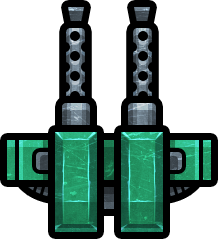
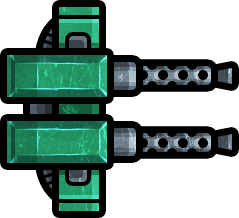
animate towers

diff --git a/battle-towers-react/src/components/classes/Tower.ts b/battle-towers-react/src/components/classes/Tower.ts
@@ -1,17 +1,20 @@
 import { Position } from "../../types";
 import Bullet from "./Bullet";
+import Sprite from "./Sprite";
 import Enemy from "./enemies/Enemy";
+// import cannon from "./../../assets/img/towers/structures/cannon/Cannon1.png";
+// import minigun from "./../../assets/img/towers/structures/minigun/MG1.png";
+import cannon from "./../../assets/img/towers/structures/missile/Missile_Launcher1.png";
+class Tower extends Sprite {
 
-class Tower {
-    private canvasRenderingContext: CanvasRenderingContext2D;
-    private position: Position;
     private size: number;
     private bullets: Bullet[];
     private radius: number;
     private target: Enemy | null;
-    private frames: number;
+    private bulletFrames: number;
 
     constructor(ctx: CanvasRenderingContext2D, { x = 0, y = 0 }: Position) {
+        super(ctx, { x: 0, y: 0 }, cannon)
         this.canvasRenderingContext = ctx;
         this.position = {
             x: x,
@@ -20,8 +23,9 @@ class Tower {
         this.size = 128;
         this.bullets = [];
         this.radius = 250;
-        this.frames = 0;
+        this.bulletFrames = 0;
         this.target = null;
+
     }
 
     private drawBlastField() {
@@ -36,8 +40,17 @@ class Tower {
     }
 
     private drawTower() {
-        this.canvasRenderingContext.fillStyle = 'blue';
-        this.canvasRenderingContext.fillRect(this.position.x, this.position.y, this.size, this.size);
+        if (this.target) {
+            const angle = Math.atan2(
+                this.target.getPosition().y - this.position.y + this.target.getBounding().height / 2,
+                this.target.getPosition().x - this.position.x + this.target.getBounding().width / 2
+            );
+            this.canvasRenderingContext.save();
+            this.canvasRenderingContext.translate(this.position.x + this.size / 2, this.position.y + this.size / 2);
+            this.canvasRenderingContext.rotate(angle);
+            this.canvasRenderingContext.drawImage(this.image, -this.size / 4, -this.size / 4, this.size, this.size / 2);
+            this.canvasRenderingContext.restore();
+        } else this.canvasRenderingContext.drawImage(this.image, this.position.x + this.size / 4, this.position.y + this.size / 4, this.size, this.size / 2);
     }
     protected draw() {
         this.drawTower();
@@ -46,17 +59,22 @@ class Tower {
 
     public update() {
         this.draw();
-        if (this.frames % 100 === 0 && this.target) {
+
+        if (this.bulletFrames % 10 === 0 && this.target) {
+            const angle = Math.atan2(
+                this.target.getPosition().y - this.position.y + this.target.getBounding().height / 2,
+                this.target.getPosition().x - this.position.x + this.target.getBounding().width / 2
+            );
+            const bulletX = this.position.x + this.size / 2 + Math.cos(angle) * (this.size / 2 + 50);
+            const bulletY = this.position.y + this.size / 2 + Math.sin(angle) * (this.size / 2 + 20);
             this.bullets.push(new Bullet(
                 this.canvasRenderingContext,
-                {
-                    x: this.position.x + this.size / 2,
-                    y: this.position.y + this.size / 2
-                },
-                this.target
+                { x: bulletX, y: bulletY },
+                this.target,
             ));
         }
-        this.frames++;
+
+        this.bulletFrames++;
     }
     public getBullets() {
         return this.bullets;

diff --git a/battle-towers-react/src/components/classes/Bullet.ts b/battle-towers-react/src/components/classes/Bullet.ts
@@ -1,7 +1,6 @@
 import { Position } from "../../types";
 import Enemy from "./enemies/Enemy";
 import Sprite from "./Sprite";
-import bullet from './../../assets/img/sprites/projectile.png';
 import cannonBullet from './../../assets/img/towers/projectiles/cannon.png';
 import minigunBullet from './../../assets/img/towers/projectiles/minigun.png';
 import missileBullet from './../../assets/img/towers/projectiles/missile.png';
@@ -15,7 +14,7 @@ class Bullet extends Sprite {
     private bulletCanon: HTMLImageElement;
 
     constructor(ctx: CanvasRenderingContext2D, { x = 0, y = 0 }: Position, enemy: Enemy) {
-        super(ctx, { x: x, y: y }, cannonBullet);
+        super(ctx, { x: x, y: y }, missileBullet);
         this.velocity = {
             x: 0,
             y: 0
@@ -24,7 +23,7 @@ class Bullet extends Sprite {
         this.speed = 10;
         this.enemy = enemy;
         this.bulletCanon = new Image();
-        this.bulletCanon.src = cannonBullet;
+        this.bulletCanon.src = missileBullet;
     }
     protected draw(angle: number) {
         this.canvasRenderingContext.save();

diff --git a/battle-towers-react/src/components/SceneCanvas.tsx b/battle-towers-react/src/components/SceneCanvas.tsx
@@ -253,7 +253,7 @@ const SceneCanvas = () => {
       activeTile = null;
       placementTiles = fillPlacementTiles(ctx, scene);
       player.setLife(player.getLife() + 3);
-      player.setMoney(player.getMoney() + 100);
+      player.setMoney(player.getMoney() + 200);
       gameTransition(GamePart.WORLD);
     }
   }
